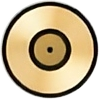
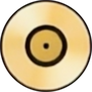
第十四轮：VIP白晕根除(盘面×0.78压暗至背景亮度)+SVIP新横条重抠(92px金盘/凹弧/实测色值)+情侣卡图标换聊天徽章放大版(554×560高清素材同源CoupleMark)

diff --git a/src/components/apps/qq.tsx b/src/components/apps/qq.tsx
@@ -40,7 +40,7 @@
  * - 会话、空间帖子、评论、密友值、登录态 localStorage 持久化
  */
 
-import { Fragment, useLayoutEffect, useCallback, useEffect, useId, useMemo, useRef, useState } from 'react';
+import { Fragment, useLayoutEffect, useCallback, useEffect, useMemo, useRef, useState } from 'react';
 import {
   ArrowLeftRight,
   AudioLines,
@@ -9885,101 +9885,6 @@ function readCoupleBondInfo(peerId: string): { bound: boolean; days: number; pen
   }
 }
 
-/** 情侣卡右侧 3D 装饰（第十三轮：对照用户最新参考图 1:1 重制）
- *  结构（参考图像素级测量：黄丝带双环耳（实心金色花瓣形，从爱心顶部两侧向后展开）
- *  + 蓝色椭圆环托底（上半波爱心遮挡）+ 果冻质感爱心（浅粉顶部圆瓣→玫红中部→淡粉下缘，
- *  顶部 V 四陷深洋红阴影 + 左大右小高光 + 下部大光雾）+ 右侧燕尾丝带垂坠（压在蓝环前）
- *  + 淡粉光晕底。颜色取样自参考图：金 #FFC11B、蓝 #62B2FE、心 #FA9CC2/#F0689F、四陷 #E04FC8 */
-function CoupleHeartMark({ className }: { className?: string }) {
-  const uid = useId().replace(/[^a-zA-Z0-9]/g, '');
-  const id = (n: string) => `chm-${n}-${uid}`;
-  return (
-    <svg viewBox="0 0 204 204" className={className} aria-hidden="true">
-      <defs>
-        <radialGradient id={id('halo')} cx="50%" cy="50%" r="50%">
-          <stop offset="0" stopColor="#FFF2F8" stopOpacity="0.9" />
-          <stop offset="0.55" stopColor="#FFDCF0" stopOpacity="0.45" />
-          <stop offset="1" stopColor="#FFD9EF" stopOpacity="0" />
-        </radialGradient>
-        <linearGradient id={id('earL')} x1="0.8" y1="0" x2="0.2" y2="1">
-          <stop offset="0" stopColor="#FFE275" />
-          <stop offset="0.5" stopColor="#FFC324" />
-          <stop offset="1" stopColor="#EEA01F" />
-        </linearGradient>
-        <linearGradient id={id('earR')} x1="0.2" y1="0" x2="0.8" y2="1">
-          <stop offset="0" stopColor="#FFE275" />
-          <stop offset="0.5" stopColor="#FFC324" />
-          <stop offset="1" stopColor="#EEA01F" />
-        </linearGradient>
-        <linearGradient id={id('tail')} x1="0" y1="0" x2="0.4" y2="1">
-          <stop offset="0" stopColor="#FFD456" />
-          <stop offset="1" stopColor="#EFA122" />
-        </linearGradient>
-        <radialGradient id={id('heart')} cx="50%" cy="30%" r="80%">
-          <stop offset="0" stopColor="#FFD6EB" />
-          <stop offset="0.38" stopColor="#FA9CC2" />
-          <stop offset="0.74" stopColor="#F0689F" />
-          <stop offset="1" stopColor="#FBA5C9" />
-        </radialGradient>
-        <radialGradient id={id('notch')} cx="50%" cy="50%" r="50%">
-          <stop offset="0" stopColor="#E04FC8" stopOpacity="0.85" />
-          <stop offset="1" stopColor="#E04FC8" stopOpacity="0" />
-        </radialGradient>
-        <radialGradient id={id('sheen')} cx="50%" cy="42%" r="60%">
-          <stop offset="0" stopColor="#FFFFFF" stopOpacity="0.72" />
-          <stop offset="1" stopColor="#FFFFFF" stopOpacity="0" />
-        </radialGradient>
-        <linearGradient id={id('ring')} x1="0" y1="0" x2="0" y2="1">
-          <stop offset="0" stopColor="#9FDBFF" />
-          <stop offset="0.55" stopColor="#66B6FE" />
-          <stop offset="1" stopColor="#4A9BE8" />
-        </linearGradient>
-      </defs>
-
-      {/* 淡粉光晕底 */}
-      <circle cx="102" cy="84" r="95" fill={`url(#${id('halo')})`} />
-
-      {/* 金色丝带双环耳（实心花瓣形，心后两侧） */}
-      <g>
-        <path
-          d="M56 24 C 36 8, 14 16, 9 44 C 5 68, 13 94, 33 104 C 52 113, 68 102, 71 83 C 73 66, 64 53, 50 55 Z"
-          fill={`url(#${id('earL')})`}
-        />
-        <path
-          d="M148 24 C 168 8, 190 16, 195 44 C 199 68, 191 94, 171 104 C 152 113, 136 102, 133 83 C 131 66, 140 53, 154 55 Z"
-          fill={`url(#${id('earR')})`}
-        />
-        {/* 耳内折痕（深金）+ 顶部受光边 */}
-        <path d="M44 44 C 30 58, 25 78, 32 95" fill="none" stroke="#E1941B" strokeWidth="3" strokeLinecap="round" opacity="0.5" />
-        <path d="M160 44 C 174 58, 179 78, 172 95" fill="none" stroke="#E1941B" strokeWidth="3" strokeLinecap="round" opacity="0.5" />
-        <path d="M56 24 C 36 8, 14 16, 9 44" fill="none" stroke="#FFEC9C" strokeWidth="2.5" strokeLinecap="round" opacity="0.85" />
-        <path d="M148 24 C 168 8, 190 16, 195 44" fill="none" stroke="#FFEC9C" strokeWidth="2.5" strokeLinecap="round" opacity="0.85" />
-      </g>
-
-      {/* 蓝色椭圆环托底（上半段被爱心遮挡） */}
-      <ellipse cx="102" cy="127" rx="67" ry="21.5" fill="none" stroke={`url(#${id('ring')})`} strokeWidth="13" />
-
-      {/* 果冻爱心本体 */}
-      <path
-        d="M102 130 C 64 105, 46 80, 49 56 C 52 33, 76 26, 92 40 C 97 44, 100 49, 102 55 C 104 49, 107 44, 112 40 C 128 26, 152 33, 155 56 C 158 80, 140 105, 102 130 Z"
-        fill={`url(#${id('heart')})`}
-      />
-      {/* 顶部 V 四陷深洋红阴影 + 下部大光雾 + 左大右小高光 */}
-      <ellipse cx="102" cy="49" rx="6.5" ry="9" fill={`url(#${id('notch')})`} />
-      <ellipse cx="102" cy="103" rx="31" ry="21" fill={`url(#${id('sheen')})`} />
-      <ellipse cx="82" cy="64" rx="21" ry="12.5" fill="#fff" opacity="0.55" transform="rotate(-20 82 64)" />
-      <ellipse cx="124" cy="52" rx="8.5" ry="5.5" fill="#fff" opacity="0.38" transform="rotate(-20 124 52)" />
-
-      {/* 右侧燕尾丝带（压在蓝环前，参考图右耳下自然垂坠） */}
-      <path
-        d="M152 96 C 170 106, 181 120, 179 141 L 172 132 L 166 143 C 165 124, 157 110, 145 101 Z"
-        fill={`url(#${id('tail')})`}
-      />
-      <path d="M152 96 C 164 104, 173 114, 177 127" fill="none" stroke="#FFEC9C" strokeWidth="2" strokeLinecap="round" opacity="0.7" />
-    </svg>
-  );
-}
-
 function FriendBondPage({
   me,
   peer,
@@ -10086,8 +9991,16 @@ function FriendBondPage({
                 'linear-gradient(105deg, #D28AE0 0%, #E999D9 38%, #F4AFD4 68%, #FEC9D0 100%)',
             }}
           >
-            {/* 右侧 3D 爱心装饰（绝对定位：参考图实测图标占卡宽 41%，右上留 21px/46px） */}
-            <CoupleHeartMark className="pointer-events-none absolute right-[21px] top-[46px] h-[147px] w-[147px]" />
+            {/* 右侧情侣徽章（用户第十四轮：跟随聊天界面名字右面的徽章图标，放大版——
+                public/qq-couple-badge-lg.png 554×560 高清抠自用户素材图，与聊天气泡旁 CoupleMark 同源同设计；
+                尺寸 158×160 蓝底座收在进度条上方 7px，不压条） */}
+            <img
+              src="/qq-couple-badge-lg.png"
+              alt=""
+              draggable={false}
+              className="pointer-events-none absolute right-[10px] top-[24px] select-none"
+              style={{ width: 158, height: 160 }}
+            />
 
             {/* 左列内容（宽度让开右侧图标区） */}
             <div className="relative w-[160px]">
@@ -10138,7 +10051,12 @@ function FriendBondPage({
                   }}
                 />
               </div>
-              <CoupleHeartMark className="h-[19px] w-[19px] shrink-0 drop-shadow-[0_2px_4px_rgba(180,60,140,0.35)]" />
+              <img
+                src="/qq-couple-badge-lg.png"
+                alt=""
+                draggable={false}
+                className="h-[24px] w-[24px] shrink-0 select-none drop-shadow-[0_2px_4px_rgba(180,60,140,0.35)]"
+              />
             </div>
             <p className="relative mt-[7px] text-[9.5px] leading-none text-white/75">
               再得 {coupleLv.need} 分升级 Lv{coupleLv.lv + 1}

diff --git a/src/components/apps/music-mine.tsx b/src/components/apps/music-mine.tsx
@@ -85,28 +85,30 @@ export function cnNum(n: number): string {
 }
 
 /**
- * VIP 徽章（第十三轮：按用户最新参考截图 1:1 重制）。
- * 唱片：用户截图原像素抠底 —— public/music-vip-disc-{vip,svip}.png。VIP 换新截图 285px 高清大黑胶
- * （外暗环 + 灰盘面 + 左上高光 + 中央小黑胶红标 + 右下反光）；SVIP 沿用金胶抠底。
- * 布局（新截图实测：唱片 Ø285 / 胶囊高 225 → 等比换算到胶囊 13.5px）：
- * - 唱片直径 17.5px（1.28×胶囊高），上下微溢出胶囊；
- * - 胶囊左端不是平头也不是圆角，而是**凹弧**（圆心=唱片圆心、半径 0.74×胶囊高的圆弧，
- *   与唱片边缘留 ~1.3px 间隙，弧最深处切入胶囊 ~2.6px）——用 CSS radial-gradient mask 精确复刻；
- * - 文字「VIP·柒」：字号 9px（参考图实测 ≈0.66×胶囊高），VIP 米白 #EDE6DD / SVIP 金 #FBF2DC，
- *   胶囊底 VIP #302B28（截图实测 48,43,40）/ SVIP #362E2B；数字跟随等级动态变化。
+ * VIP 徽章（第十四轮：双盘重抠 + 按各自参考截图实测微调）。
+ * 唱片：用户截图原像素抠底 —— public/music-vip-disc-{vip,svip}.png：
+ * - VIP 284px 大黑胶（新截图重抠+内缩 0.75px 防边缘污染；**盘面整体压暗 ×0.78**——用户反馈深色
+ *   资料页上原灰盘面像一圈白晕，压暗后黑胶感回归、无白晕）；
+ * - SVIP 92px 金胶（用户新横条参考图重抠：金渐变盘面+黑外环+深金标签+中心孔）。
+ * 布局（按各自参考实测等比换算，胶囊高 13.5px）：
+ * - VIP 参考（Ø285/胶囊222→0.78）：盘 17.3px；SVIP 参考（Ø93.5/胶囊74→0.79）：盘 17px；
+ * - 胶囊左端**凹弧**（圆心=唱片圆心、半径 10px，与盘缘留 VIP 1.35 / SVIP 1.5px 间隙）；
+ * - 文字 9px：VIP 米白 #EDE6DD / SVIP 金 #F4E8D0（横条实测 244,232,208）；
+ *   胶囊底 VIP #302B28 / SVIP #3D3533（横条实测 61,53,51）；内边距 VIP 4.8/5.2、SVIP 5.4/6。
  * level<1 只显示 VIP。
  */
 export function VipBadge({ type, level }: { type: 'vip' | 'svip'; level: number }) {
   const svip = type === 'svip';
-  const DISC = 17.5; // 唱片直径（1.28×13.5）
-  const ARC = 10; // 胶囊左端凹弧半径（0.74×13.5），圆心=唱片圆心
-  // 胶囊盒左缘 = 唱片半径 - √(ARC²-(H/2)²) = 8.75-7.38 → 盒左缘落在唱片盒内 1.37px
-  const pillMl = 1.37 - DISC; // -1.37px（盒重叠区会被凹弧 mask 挖空，视觉无重叠）
-  // mask：唱片圆心在胶囊盒左缘左侧 7.38px；圆内透明（挖出凹弧）、圆外不透明
+  const DISC = svip ? 17 : 17.3; // 唱片直径（各自参考实测比例）
+  const ARC = 10; // 胶囊左端凹弧半径，圆心=唱片圆心
+  // 胶囊盒左缘 = 唱片半径 - √(ARC²-(H/2)²)=±7.38 → 盒左缘落在唱片盒内 1.12/1.27px
+  const pillInset = DISC / 2 - 7.38;
+  const pillMl = pillInset - DISC;
+  // mask：唱片圆心在胶囊盒左缘右侧 7.38px；圆内透明（挖出凹弧）、圆外不透明
   const maskCss = `radial-gradient(circle ${ARC}px at ${(DISC / 2 + pillMl) * -1}px 50%, transparent ${ARC - 0.15}px, #000 ${ARC}px)`;
   return (
     <span className="relative flex shrink-0 items-center" data-testid="music-mine-vip">
-      {/* 用户截图原像素唱片（圆形抠底无白边），上下溢出胶囊 2px */}
+      {/* 用户截图原像素唱片（圆形抠底无白边），上下微溢出胶囊 */}
       <img
         src={svip ? '/music-vip-disc-svip.png' : '/music-vip-disc-vip.png'}
         alt=""
@@ -118,17 +120,17 @@ export function VipBadge({ type, level }: { type: 'vip' | 'svip'; level: number 
       />
       {/* 深色胶囊：左端凹弧（radial-gradient mask 挖空唱片+间隙区域），右端全圆角 */}
       <span
-        className="flex h-[13.5px] shrink-0 items-center pl-[4.8px] pr-[5.2px]"
+        className={`flex h-[13.5px] shrink-0 items-center ${svip ? 'pl-[5.4px] pr-[6px]' : 'pl-[4.8px] pr-[5.2px]'}`}
         style={{
           marginLeft: pillMl,
           borderRadius: '0 999px 999px 0',
-          background: svip ? '#362E2B' : '#302B28',
+          background: svip ? '#3D3533' : '#302B28',
           WebkitMaskImage: maskCss,
           maskImage: maskCss,
         }}
       >
         <span
-          className={`text-[9px] font-bold leading-none ${svip ? 'text-[#FBF2DC]' : 'text-[#EDE6DD]'}`}
+          className={`text-[9px] font-bold leading-none ${svip ? 'text-[#F4E8D0]' : 'text-[#EDE6DD]'}`}
         >
           {svip ? 'SVIP' : 'VIP'}
           {level >= 1 && <span className="font-bold">·{cnNum(level)}</span>}

diff --git a/worklog.md b/worklog.md
@@ -807,3 +807,21 @@ Stage Summary:
 - 第十三轮全部落地：AI 买不到就自创（淘宝宝贝级/美团店级+菜品级）+ 决策额度不再空耗 + 美团冷却彻底删除 + 兜底保送到（淘宝+美团双端）
 - 关键决策：兜底触发从「AI承诺才买」放宽为「机主明确要买且 AI 未婉拒」（用户核心诉求是必须送到）；自创商品用本地启发式（不阻塞同步执行链），图走本地卡图按关键词映射
 - 遗留选项清单已列给用户：QQ端礼物卡/帮你买/送礼物补齐方案、QQ亲属卡、自主额度2次/天是否上调、自主链刷新断链、QQ端教学矛盾（承诺纪律vs执行器拒绝）
+
+---
+Task ID: 29-B（远程并行环境：第十四轮）
+Agent: Z.ai 主控（Z.ai Code）
+Task: 第十四轮反馈——VIP图标白晕问题修复 / SVIP图标按新横条参考图重抠 / 情侣关系卡图标换成聊天徽章放大版
+
+Work Log:
+- [VIP白晕根因] 用户截图（Screenshot_20261027_101833.jpg，实为我App在用户手机上的渲染）像素级诊断：盘面灰区渲染亮度~117 vs 页面背景~60——第十三轮提取的285px盘面带浅灰盘面+光泽条纹（源图盘面本来就比背景亮），缩到17.3px后整个盘面读作一圈"白晕"（VLM亦确认"像贴上去的白边"）
+- [VIP修复] 重提取+盘面压暗：6x超采样抠底（内缩0.75px防边缘污染源背景色）+ 盘面区（半径48-133、低饱和、亮度55-145）RGB×0.78 → 盘面(74-78,70-74,66-72)；E2E像素径向剖面验证：渲染盘面avg 58-62 ≈ 页面背景 59-65（修复前117），外黑环53-56更暗于背景——白晕彻底消除，唱片读作"红标签+双黑环"干净黑胶
+- [SVIP重抠] 用户横条参考图（IMG_20261027_101745.jpg 2392×176，u1oio·SVIP·肆）：圆拟合金盘 center(1258.06,90.71) r46.71（残差0.38）；实测胶囊 y54-127(h74)/左端凹弧=与盘同心 r55（间隙8.25px）/胶囊底(61,53,51)/文字核心(244,232,208)；6x超采样+内缩0.75px → public/music-vip-disc-svip.png 92px（金渐变盘面240-247+黑外环+深金标签+中心孔）
+- [VipBadge微调] music-mine.tsx：盘径按各自参考实测比例分设 VIP 17.3（Ø285/胶囊222）/SVIP 17（Ø93.5/胶囊74）；胶囊底 SVIP #362E2B→#3D3533、文字 #FBF2DC→#F4E8D0；内边距 SVIP pl4.8→5.4 pr5.2→6（横条实测）；凹弧 ARC 10 不变（两参考一致 0.74×胶囊高）
+- [情侣卡换徽章] 找到高清源：IMG_20261026_205545.jpg（1452×780 白底素材图）——与聊天 CoupleMark 的 96px qq-couple-badge.png 同设计；边界洪泛填充（近白连通背景→alpha0，保内部白色高光）+边缘按白度羽化 → public/qq-couple-badge-lg.png 554×560（196KB）；qq.tsx 情侣卡右侧图标 CoupleHeartMark SVG → <img qq-couple-badge-lg> 158×160（right-10 top-24，蓝底座收在进度条上方不压条）；进度条右端 mini 也换同徽章 24×24；删除不再使用的 CoupleHeartMark 组件与 useId 导入
+- [验证] tsc 0新增（仅 next.config.ts 基线）；eslint 改动文件 0 问题；E2E 实机：游客SVIP→5倍缩放高保真渲染 VLM 评分9.2/10（香槟金渐变/黑外环无白晕/凹弧+细间隙/米金文字全对）✓；切VIP→像素径向剖面盘面58-62≈背景59-65白晕消除✓；QQ情侣卡→徽章图loaded 554×560 渲染158×160+mini 24×24，VLM确认徽章完整（小顶心/大爱心/双蝶结/蓝底座）清晰不压字、进度条正常、整卡美观✓；console/dev.log 零新增错误
+
+Stage Summary:
+- 第十四轮三项全部完成：VIP 白晕根除（盘面压暗法）、SVIP 按新横条参考重抠+实测色值微调、情侣卡图标统一为聊天徽章放大版（554×560 高清素材，与 CoupleMark 同源）
+- 关键文件：public/music-vip-disc-vip.png(284px 压暗版)、public/music-vip-disc-svip.png(92px 新抠)、public/qq-couple-badge-lg.png(新 554×560)、music-mine.tsx(VipBadge)、qq.tsx(情侣卡/CoupleHeartMark删除)
+- 方法论沉淀：小尺寸位图徽章的"盘面亮度≈背景亮度"原则——盘面显著亮于深色背景就会读作白晕；抠底时内缩0.75px+超采样防边缘污染
